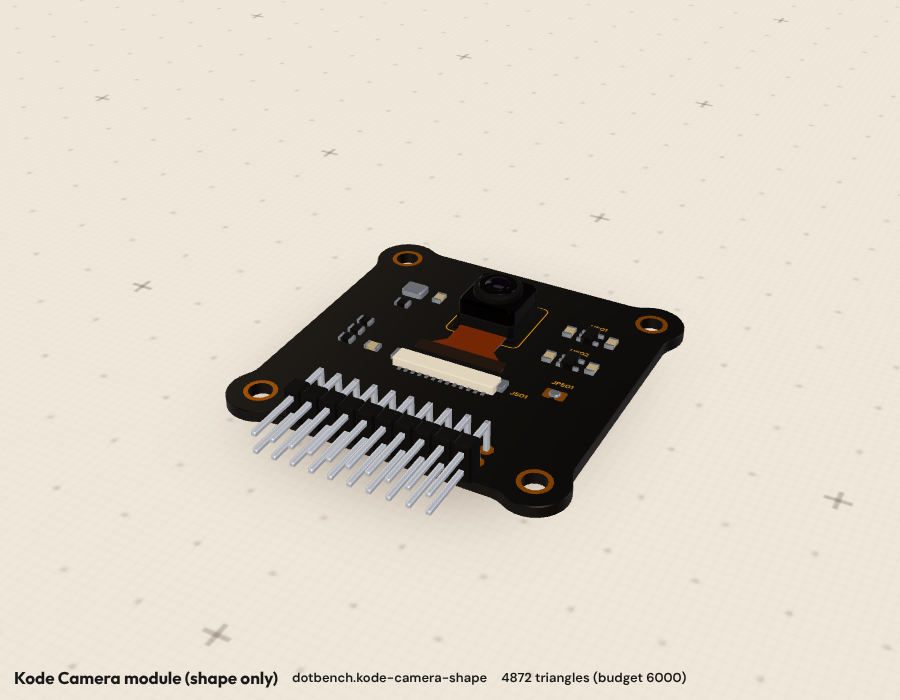
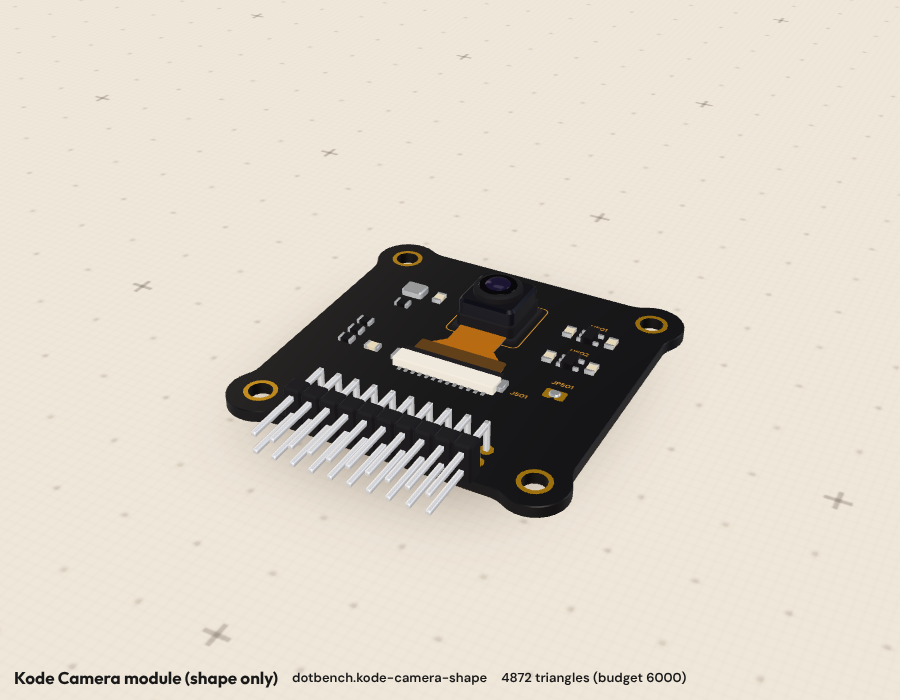
Bench3D: Kode boards re-tuned for the kit's single colour conversion
The photo's gold for the silkscreen, the kit's halo for the Robotics fault (the driver glows,
its heat lies on the board round it), fresh shots of Robotics, Maker and Camera.

diff --git a/web/src/bench3d/models/kode/kode-robotics.model.ts b/web/src/bench3d/models/kode/kode-robotics.model.ts
@@ -17,10 +17,10 @@
  * LIVE STATE WITHOUT INVENTED PARTS. The real board has no lamps, so none are drawn. Two things are the simulator's
  * own way of speaking, as a burning LED's glare is: a driven bridge output warms the head of its own screw (a faint
  * amber, by the output's level: it marks the live terminal, nothing more), and a fault (the engine's flag, or nFAULT
- * pulled low while its pull-up rail is fed) makes the driver chip glow red hot on a scorched patch of board.
+ * pulled low while its pull-up rail is fed) makes the driver chip glow red hot, with its heat on the board round it.
  */
 import manifest from '../../../../../parts/kode-robotics/manifest.json';
-import { FONT, PAL, PITCH, Shape, defineModel, footprintOf, glowing, part, partState, print, setLamp, terminalsFromManifest, text, topQuad, type PartState, type Pt } from '../../index';
+import { FONT, PAL, PITCH, Shape, defineModel, footprintOf, glowing, halo, partState, print, setLamp, terminalsFromManifest, text, topQuad, type PartState, type Pt } from '../../index';
 import { SILK, asManifest, chipPassive, connectorOf, earOutline, outlineBoard, pinPoints, pinStrip, rightAngleHeader, screwBlock, socketStrip, stripBetween } from './shared';
 
 const M = asManifest(manifest);
@@ -97,12 +97,9 @@ export default defineModel<PartState>({
     const root = s.toObject();
     const chip = new Shape();
     chip.box('matte', '#303034', U501.x, U501.z, 4, 4, TOP + 0.03, TOP + 0.85, 0.2, 0.12, { ao: 0.95 });
-    const heat = new Shape();
-    heat.disc('glass', '#ff3a1a', U501.x, U501.z, 6.4, TOP + 0.03, TOP + 0.07, 0, ctx.seg(22), { ao: 1 });
-    const hot = glowing('heat', heat);
-    hot.visible = false;
     root.add(
-      hot,
+      // the heat a faulted driver throws on the board round it: the kit's halo, dark until then
+      halo('heat', [U501.x, TOP + 0.06, U501.z], 13),
       print({
         name: 'silk',
         quad: topQuad(0, 0, TOP + 0.02, W / 2, D / 2),
@@ -176,13 +173,13 @@ export default defineModel<PartState>({
       const level = awake && !fault ? Number(o[OUTS[i].out] ?? 0) : 0;
       setLamp(obj, OUTS[i].screw, AMBER, level > 0.02 ? 0.12 + 0.4 * level : 0);
     }
-    part(obj, 'heat')!.visible = fault;
     if (fault) {
       setLamp(obj, 'u501', 0xe01800, 0.5 + 0.22 * Math.sin(env.time * 9));
-      setLamp(obj, 'heat', 0xff2a10, 0.75 + 0.25 * Math.sin(env.time * 9));
+      setLamp(obj, 'heat', 0xff3410, 0.8 + 0.2 * Math.sin(env.time * 9));
       return true;
     }
     setLamp(obj, 'u501', 0, 0);
+    setLamp(obj, 'heat', 0, 0);
   },
   states: {
     off: partState({ power: { on: false, reason: 'no 5 V' } }),
